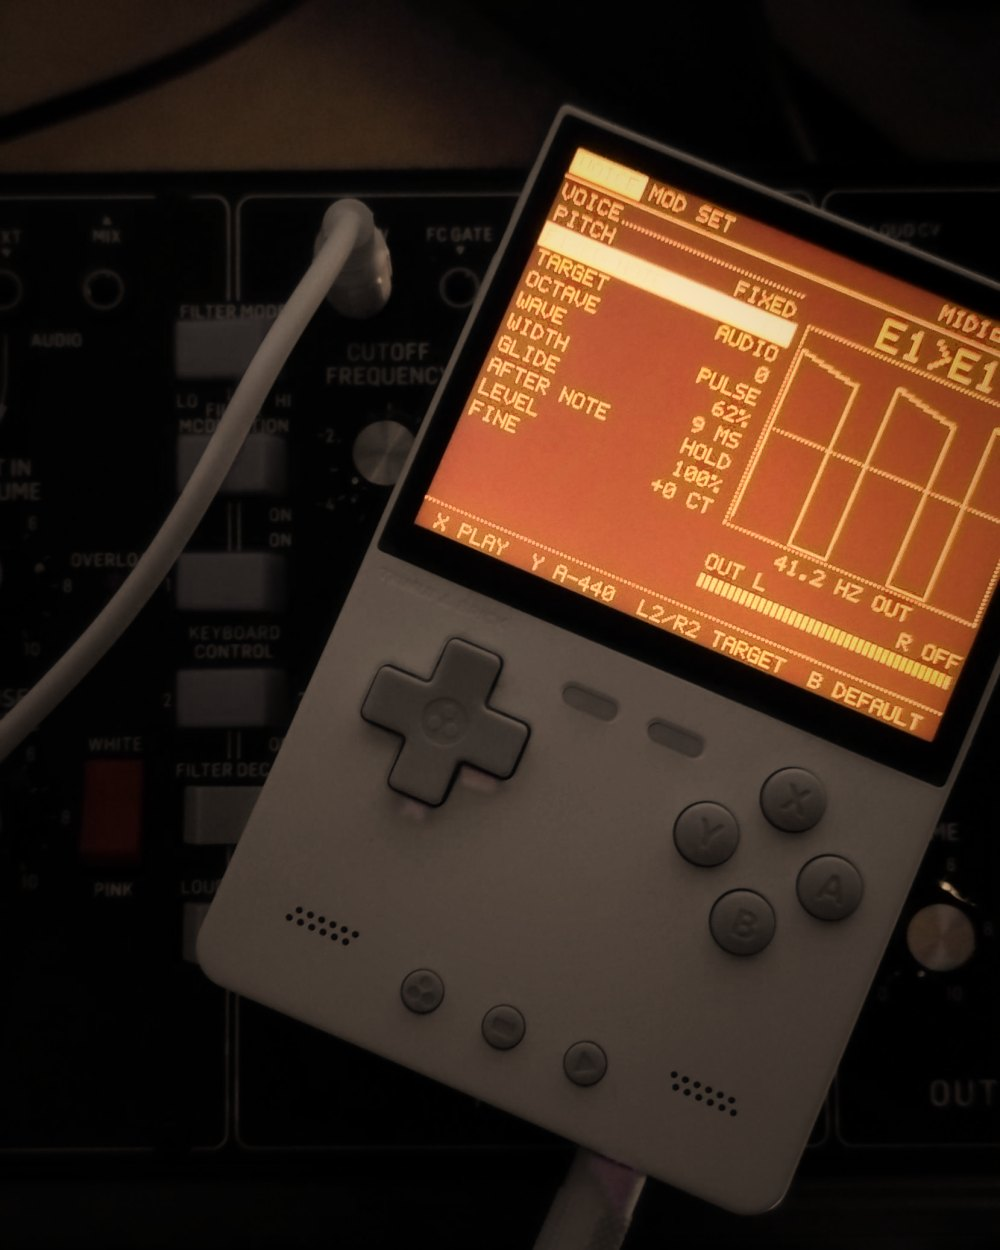
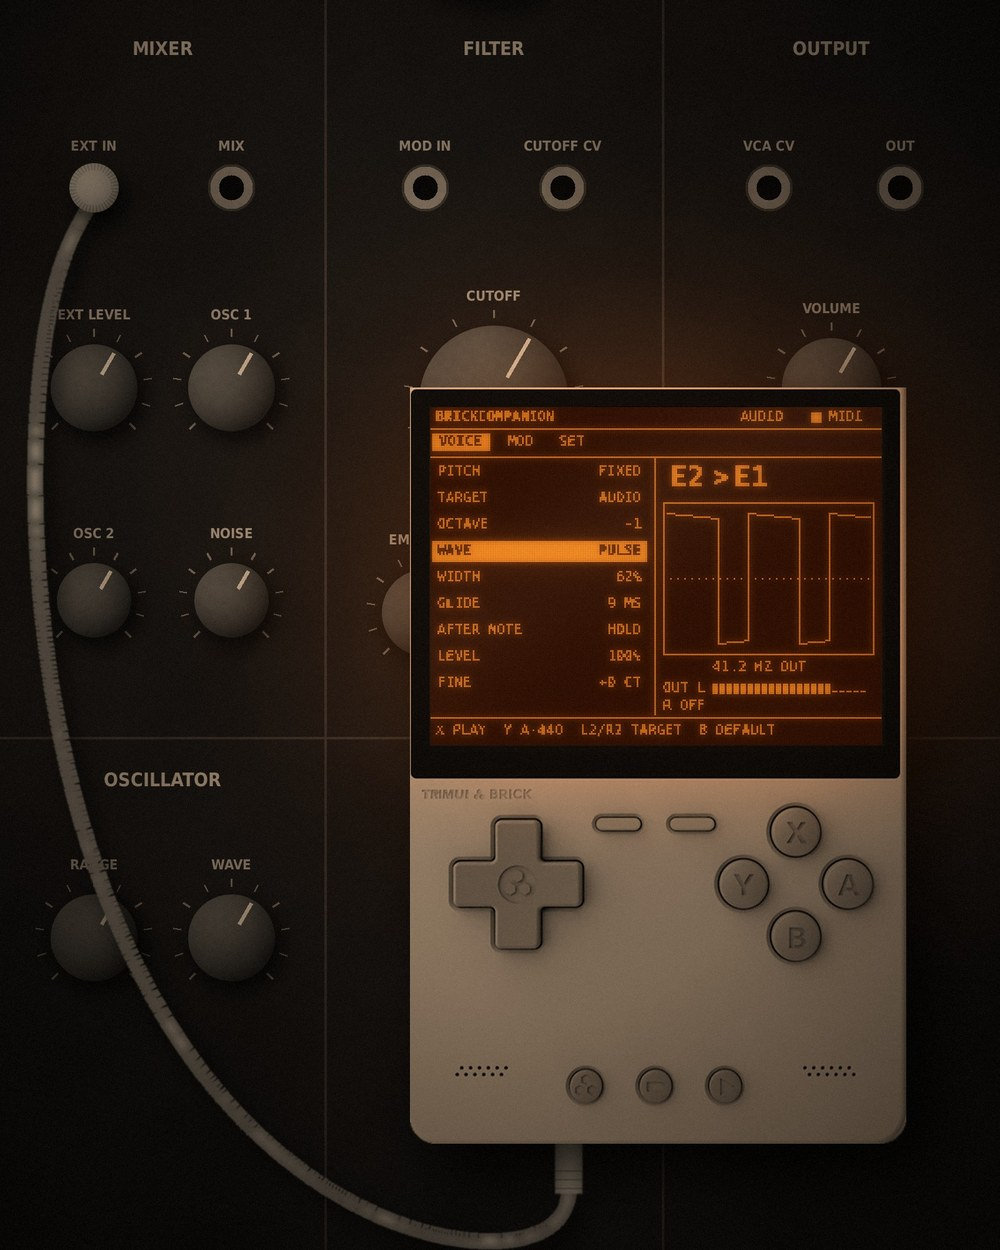
BrickCompanion: new mockup (Brick on an analog synth panel, patched into EXT IN)
Claude-Session: https://claude.ai/code/session_01Ww6xfofRDfEog8qquCtwXZ

diff --git a/companion.html b/companion.html
@@ -78,7 +78,7 @@
       <p class="small">It will be free and open source (GPL-3.0), like the other apps.</p>
     </div>
     <div>
-      <img class="hero-img" src="brickcompanion.jpg" width="1000" height="1250" alt="TrimUI Brick running BrickCompanion, sitting on an analog synth and patched into it with a cable">
+      <img class="hero-img" src="brickcompanion.jpg" width="1000" height="1250" alt="TrimUI Brick running BrickCompanion on top of an analog synth, with a cable from the Brick into the synth's external input">
     </div>
   </section>
 
